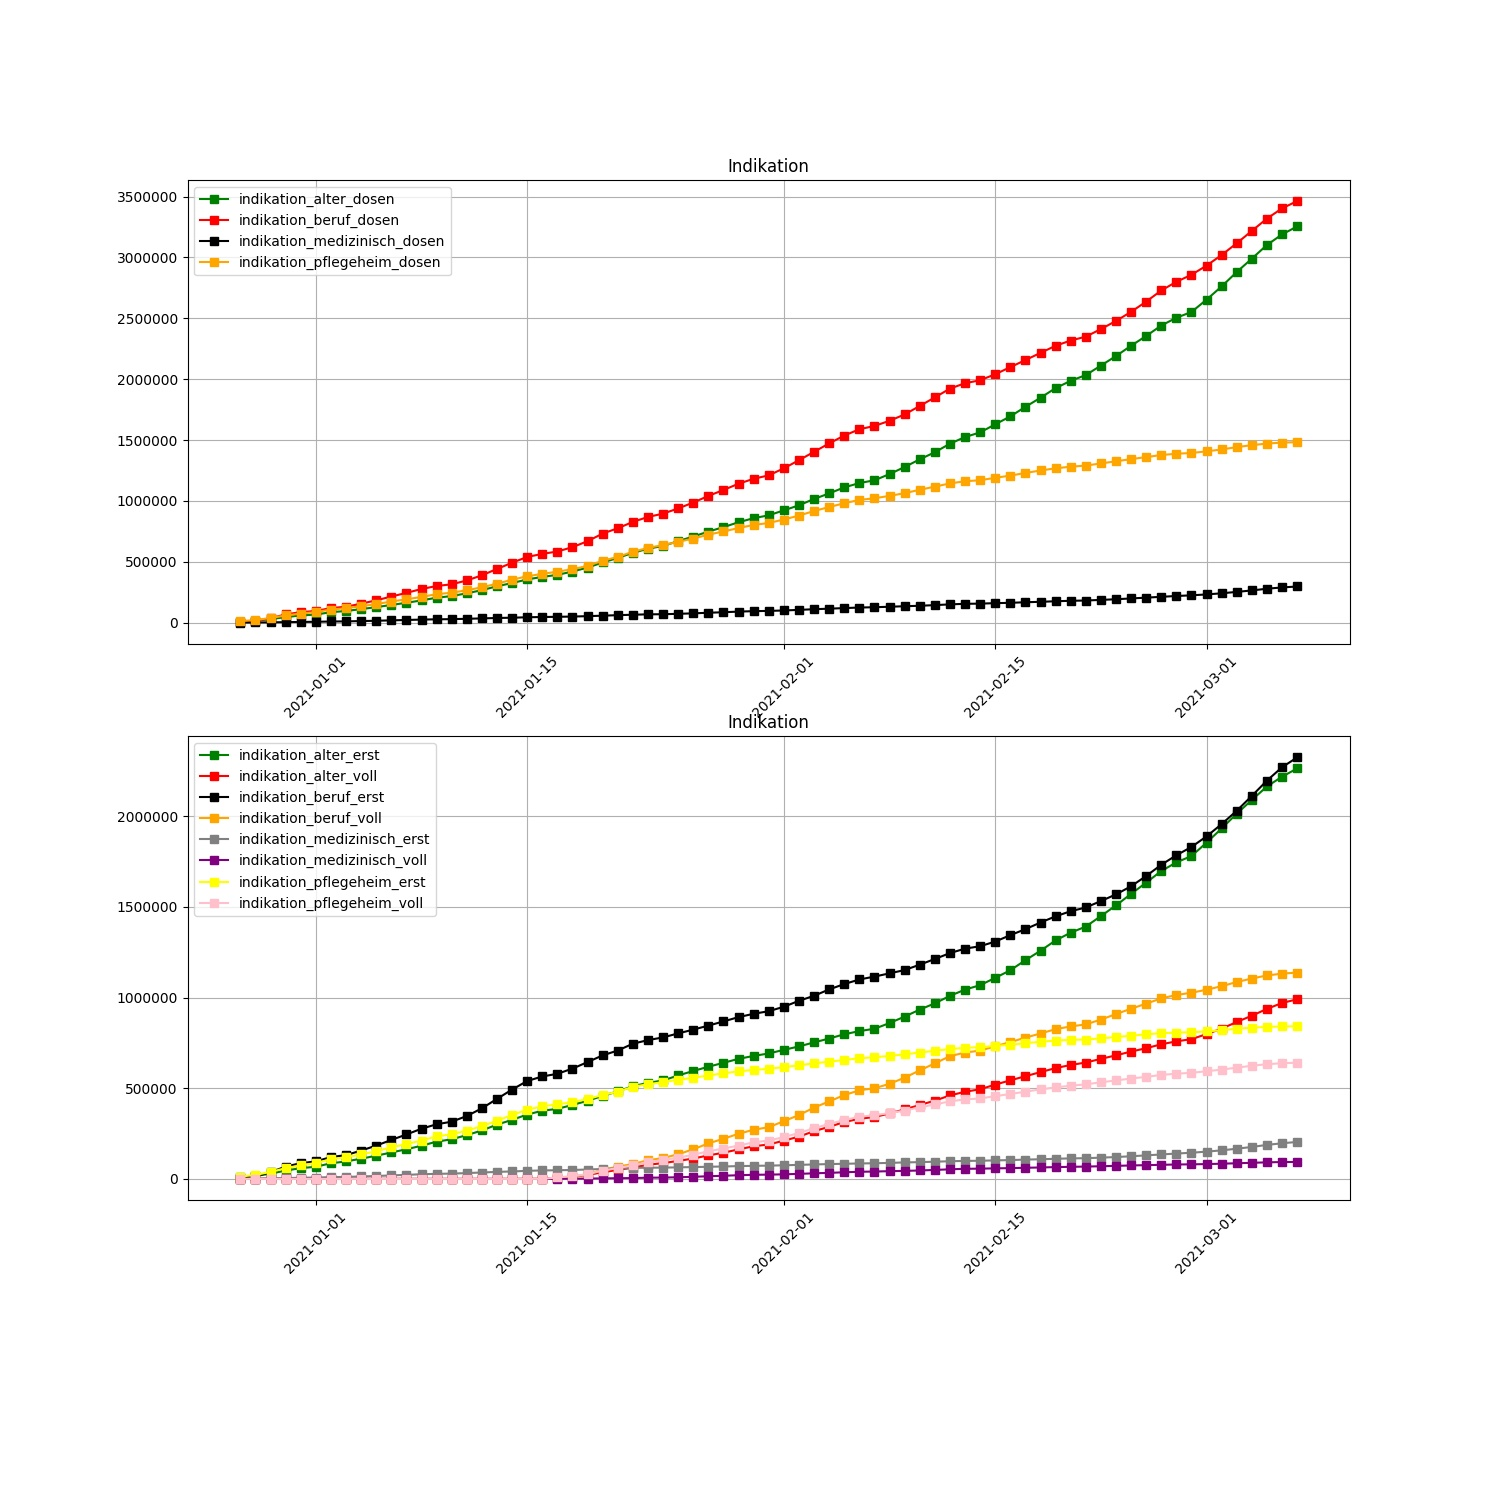
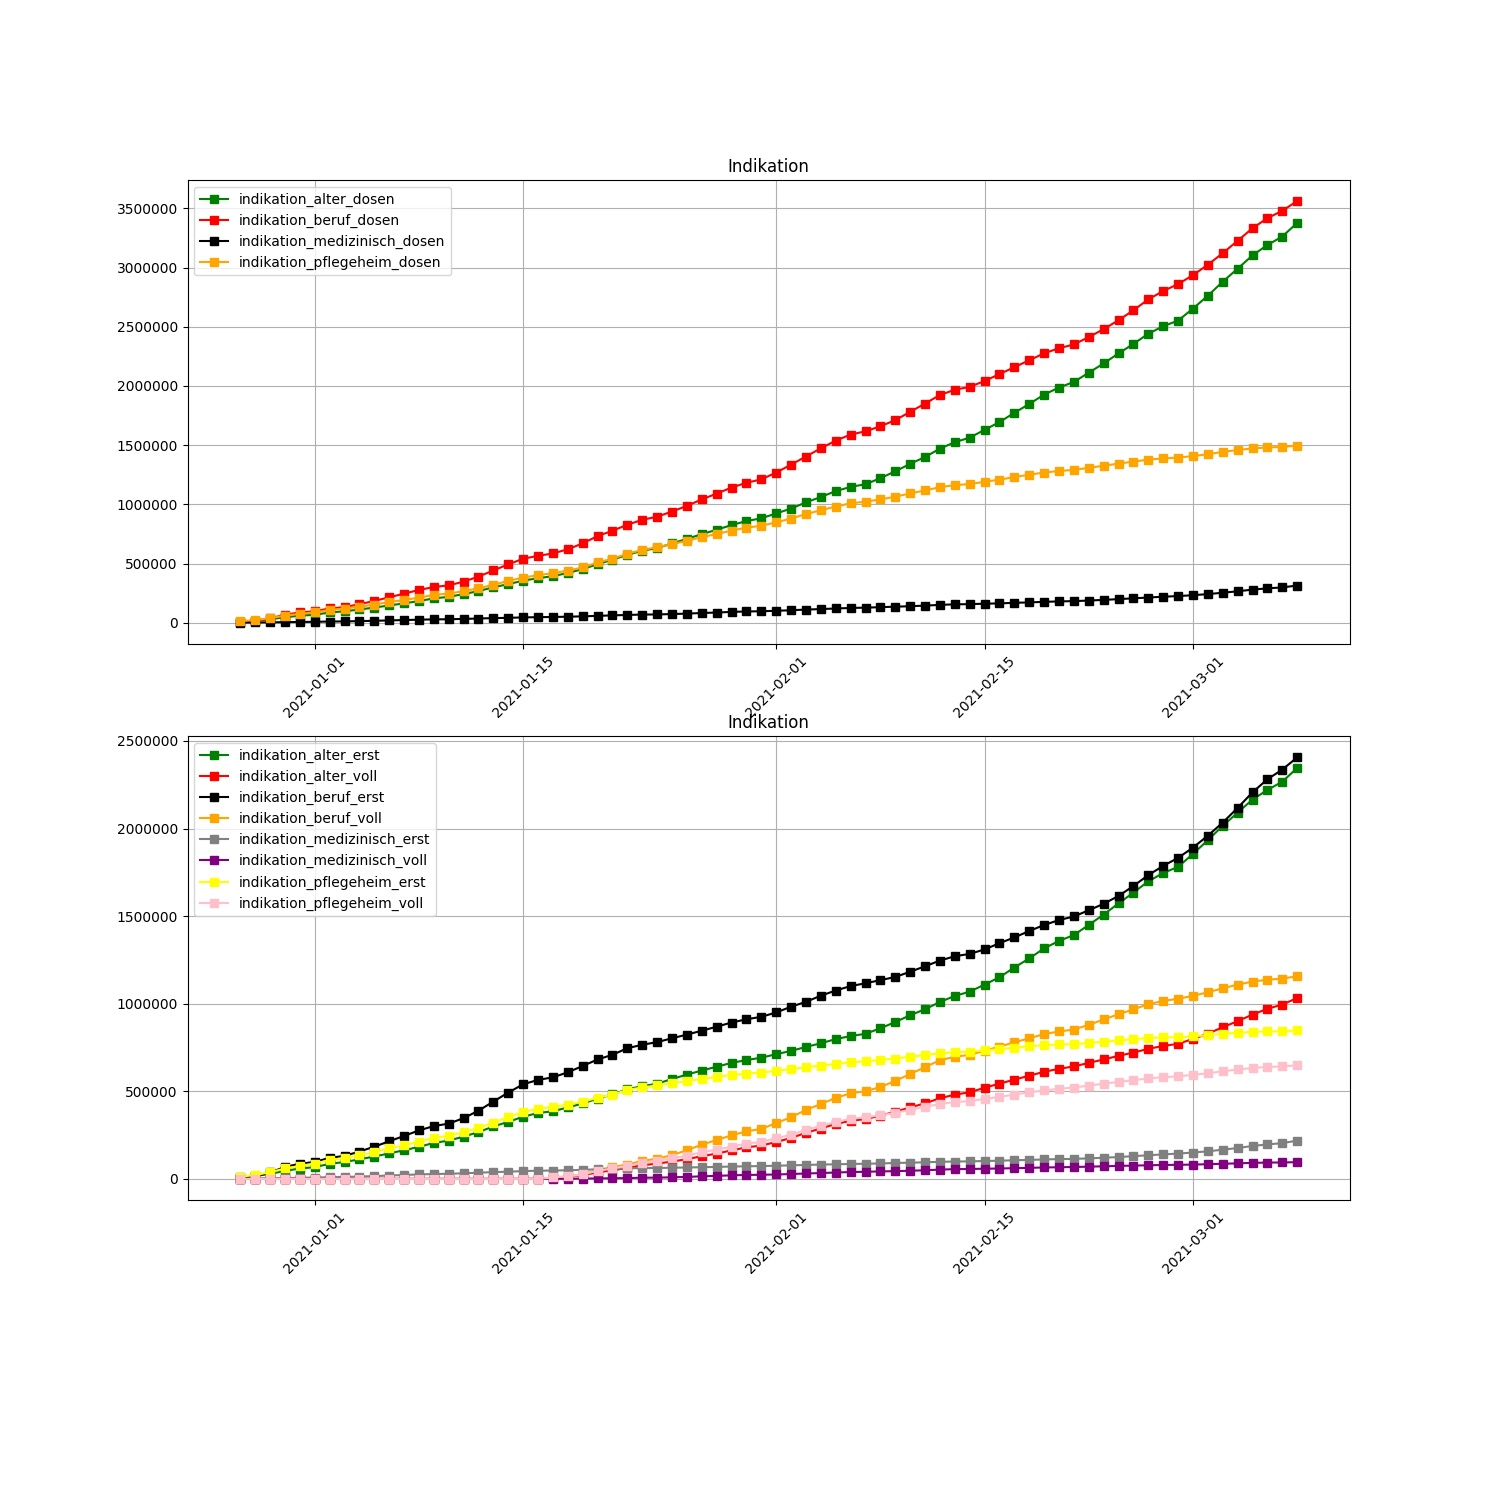
Crontab commit

diff --git a/Readme.md b/Readme.md
@@ -1,19 +1,19 @@
-# Corona vaccine Germany - Stand 2021-03-07
+# Corona vaccine Germany - Stand 2021-03-08
 ## Dashboard by [Simon Hamacher](https://www.shamacher.eu)
 ## Impfstoffe Übersicht
 **Impfstoffhersteller** | **verimpfte Dosen**
 -------- | :--------:
-Biontech | 6471432
-Moderna | 241102
-Astrazeneca | 942089
+Biontech | 6617613
+Moderna | 252559
+Astrazeneca | 1026928
 
 
 ## Quoten
-**Total Verimpfte Dosen:** | 7654623
+**Total Verimpfte Dosen:** | 7897100
 -------- | :--------:
-**Erst-Impfquote** | 6.21 %
-**Voll-Impfquote** | 2.99 %
-**Imfungen Durchschnitt** | 107811.59 pro Tag
+**Erst-Impfquote** | 6.43 %
+**Voll-Impfquote** | 3.06 %
+**Imfungen Durchschnitt** | 109681.94 pro Tag
 ## Graphen
 <img src="Impfungen-Corona-01.jpg" alt="Corona-1" title="optionaler Titel" />
 <img src="Impfungen-Corona-02.jpg" alt="Corona-2" title="optionaler Titel" />
